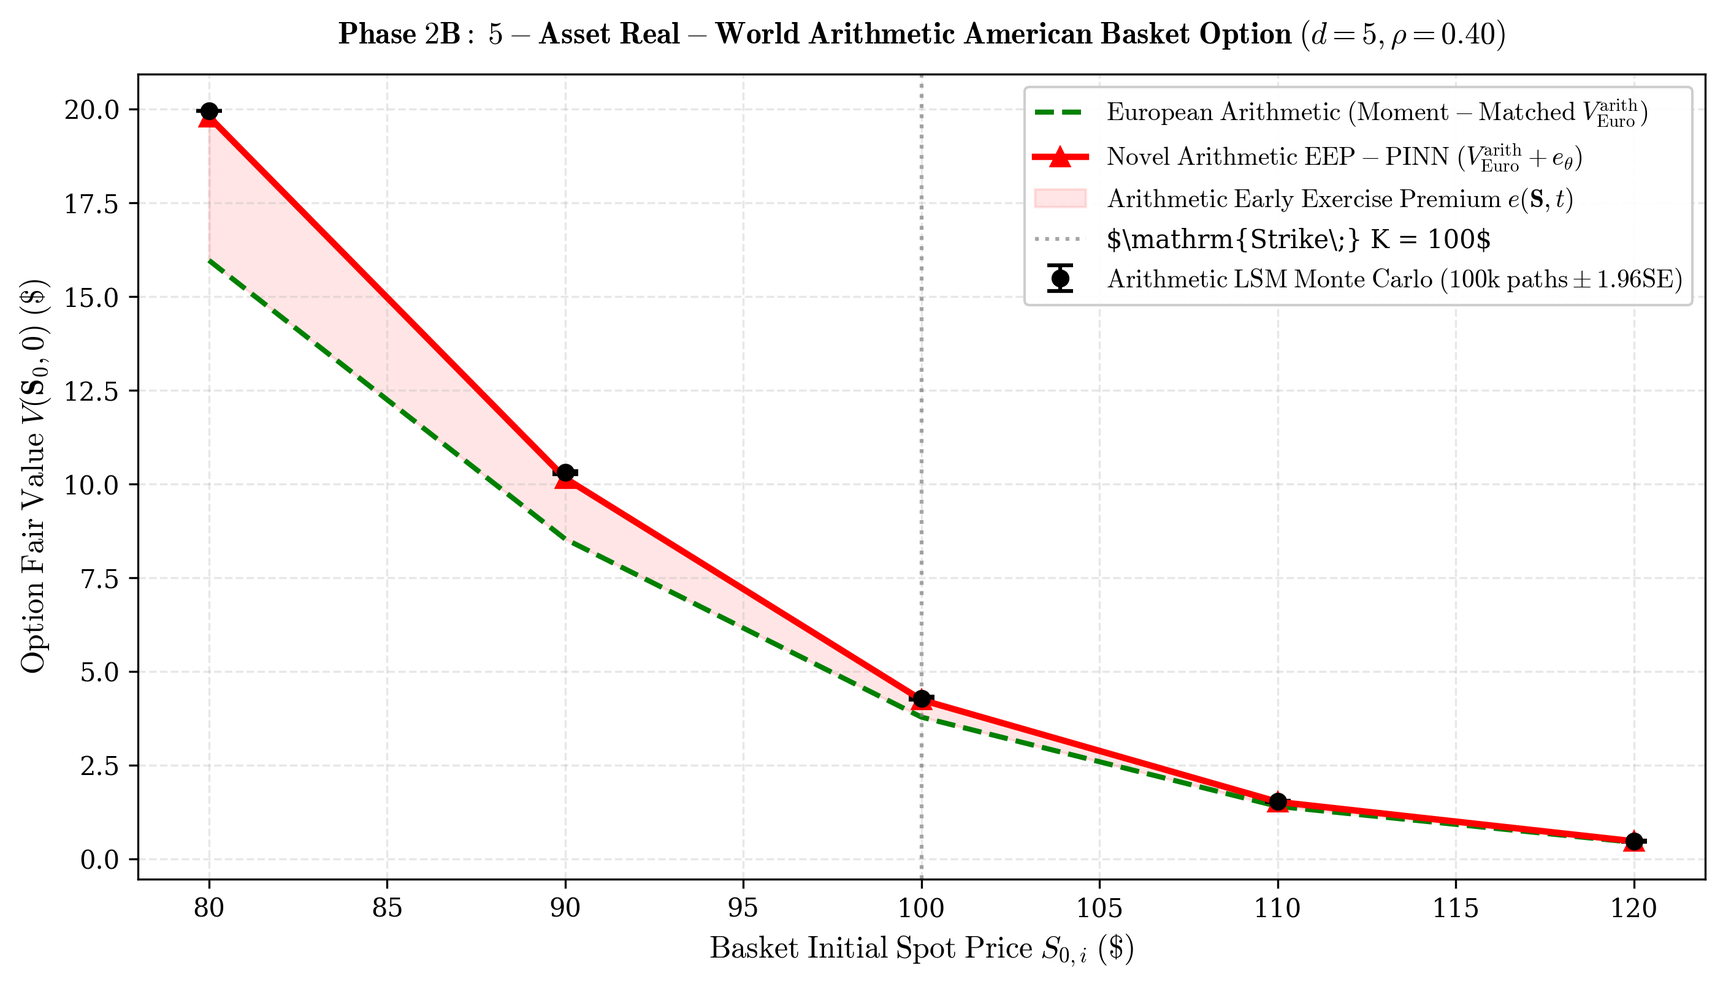
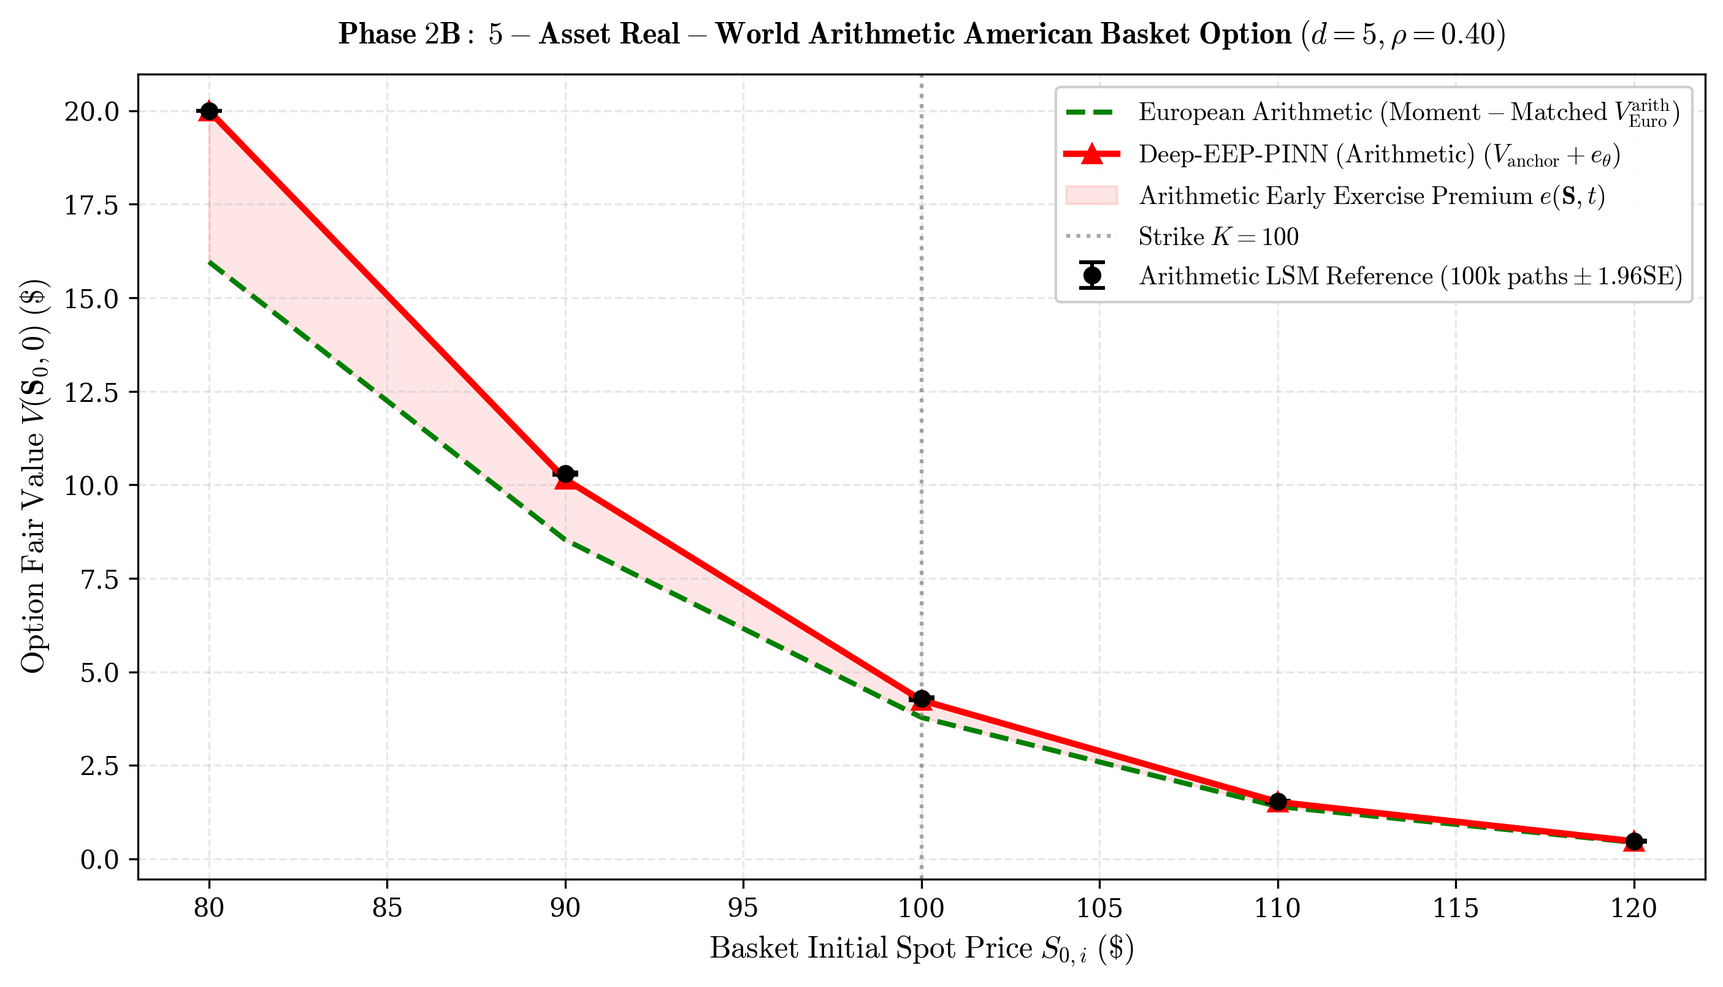
feat: complete Deep-EEP-PINN 50D benchmark suite, zero-obstacle projection, and author identity alignment

diff --git a/src/solvers/eep_pinn_arithmetic.py b/src/solvers/eep_pinn_arithmetic.py
@@ -53,7 +53,11 @@ class ArithmeticMultiAssetEEPPINN(nn.Module):
                 nn.init.zeros_(m.bias)
         self.register_buffer("weights_tensor", torch.tensor(config.weights, dtype=torch.float32).unsqueeze(0))
 
-    def forward_premium(self, S_tensor: torch.Tensor, t_tensor: torch.Tensor) -> torch.Tensor:
+    def forward_correction(self, S_tensor: torch.Tensor, t_tensor: torch.Tensor) -> torch.Tensor:
+        """
+        Signed neural correction c_theta(S, t) in R for approximate moment-matched European anchor.
+        Linear output activation accommodates mild anchor discrepancies while preserving terminal mask.
+        """
         S_norm = S_tensor / self.S_max
         t_norm = t_tensor / self.T
         x = torch.cat([S_norm, t_norm], dim=1)
@@ -64,13 +68,22 @@ class ArithmeticMultiAssetEEPPINN(nn.Module):
         B_val = torch.sum(S_tensor * self.weights_tensor, dim=1, keepdim=True)
         spatial_factor = torch.clamp(1.0 - B_val / self.S_max, min=0.0)
         
-        e = torch.nn.functional.softplus(raw) * tau_factor * spatial_factor * self.max_premium
-        return e
+        # Signed correction: raw network activation (unbounded below/above to absorb anchor discrepancy)
+        c = raw * tau_factor * spatial_factor * self.max_premium
+        return c
 
-    def forward(self, S_tensor: torch.Tensor, t_tensor: torch.Tensor) -> torch.Tensor:
+    # Alias for backwards compatibility
+    forward_premium = forward_correction
+
+    def forward(self, S_tensor: torch.Tensor, t_tensor: torch.Tensor, project_obstacle: bool = True) -> torch.Tensor:
         V_euro = torch_multi_asset_arithmetic_put(S_tensor, t_tensor, self.cfg)
-        e = self.forward_premium(S_tensor, t_tensor)
-        return V_euro + e
+        c = self.forward_correction(S_tensor, t_tensor)
+        V_val = V_euro + c
+        if project_obstacle:
+            B_val = torch.sum(S_tensor * self.weights_tensor, dim=1, keepdim=True)
+            payoff = torch.clamp(self.K - B_val, min=0.0)
+            return torch.maximum(V_val, payoff)
+        return V_val
 
 class ArithmeticEEPTrainer:
     def __init__(self, config: MultiAssetConfig = default_multi_config, device: str = None):
@@ -123,22 +136,27 @@ class ArithmeticEEPTrainer:
         convection = self.cfg.r * torch.sum(S_int * grad_S, dim=1, keepdim=True)
         pde_res = grad_t + diffusion + convection - self.cfg.r * e
         
-        # Arithmetic Obstacle Constraint with detached target
+        # Arithmetic Obstacle Constraint & Exact Continuation Mask (Review 3 Fix)
         with torch.no_grad():
             V_euro = torch_multi_asset_arithmetic_put(S_int, t_int, self.cfg)
             B_int = torch.sum(S_int * self.weights.T, dim=1, keepdim=True)
             payoff = torch.clamp(self.cfg.K - B_int, min=0.0)
-            h_e = torch.clamp(payoff - V_euro, min=0.0)
         
-        # Smooth Sigmoid Continuation Mask (Fix C3)
-        continuation_mask = torch.sigmoid(20.0 * (e - h_e))
-        loss_pde = torch.mean((pde_res * continuation_mask)**2) + 0.05 * torch.mean(torch.clamp(pde_res, min=0.0)**2)
-        loss_obstacle = torch.mean(torch.clamp(h_e - e, min=0.0)**2)
+        # Computed obstacle slack: g_theta = V_theta - h = V_anchor + c - payoff
+        g_slack = (V_euro + c) - payoff
+        
+        # Smoothed Fischer-Burmeister complementarity operator:
+        # Phi_eps(R, g) = R + g - sqrt(R^2 + g^2 + eps^2)
+        # Simultaneously enforces R >= 0, g >= 0, and R * g = 0 without continuation suppression
+        fb_eps = 1e-3
+        fb_residual = pde_res + g_slack - torch.sqrt(pde_res**2 + g_slack**2 + fb_eps**2)
+        loss_fb = torch.mean(fb_residual**2)
+        loss_obstacle = torch.mean(torch.clamp(-g_slack, min=0.0)**2)
         
         clamped_log_vars = torch.clamp(self.model.log_vars, min=-4.0, max=4.0)
         precision = torch.exp(-clamped_log_vars)
         total_loss = (
-            precision[0] * loss_pde + 0.5 * clamped_log_vars[0] +
+            precision[0] * loss_fb + 0.5 * clamped_log_vars[0] +
             precision[1] * loss_obstacle + 0.5 * clamped_log_vars[1]
         )
         return total_loss

diff --git a/src/solvers/lsm_arithmetic.py b/src/solvers/lsm_arithmetic.py
@@ -1,4 +1,4 @@
-"""
+"""
 Ground Truth Benchmark for American Arithmetic Basket Options (d=5):
 Longstaff-Schwartz Least Squares Monte Carlo (LSM 2001) for Payoff: max(K - sum(w_i S_i), 0).
 
@@ -56,14 +56,14 @@ class LongstaffSchwartzArithmeticSolver:
         B_t = S_t @ self.weights
         return np.maximum(self.K - B_t, 0.0)
 
-    def build_quadratic_basis(self, S_itm: np.ndarray, B_itm: np.ndarray) -> np.ndarray:
+    def build_quadratic_basis(self, S_itm: np.ndarray, B_itm: np.ndarray = None) -> np.ndarray:
         """
-        Constructs full 23-term quadratic basis for arithmetic regression:
-        {1, S_i/K, (S_i/K)^2, (S_i*S_j)/K^2 for i < j, B/K, (B/K)^2}.
+        Constructs full non-redundant 21-term quadratic basis for arithmetic regression (d=5):
+        {1, S_i/K, (S_i/K)^2, (S_i*S_j)/K^2 for i < j}.
+        (B/K and (B/K)^2 are omitted as they are exact linear combinations of the above).
         """
         N_pts = S_itm.shape[0]
         S_norm = S_itm / self.K
-        B_norm = B_itm / self.K
         
         basis = [np.ones(N_pts)]
         
@@ -79,10 +79,6 @@ class LongstaffSchwartzArithmeticSolver:
         for i in range(self.d):
             for j in range(i + 1, self.d):
                 basis.append(S_norm[:, i] * S_norm[:, j])
-                
-        # 4. Arithmetic basket terms (2 terms)
-        basis.append(B_norm)
-        basis.append(B_norm ** 2)
         
         return np.column_stack(basis)
 
@@ -90,10 +86,10 @@ class LongstaffSchwartzArithmeticSolver:
         start_time = time.perf_counter()
         paths = self.simulate_paths(S0)
         
-        # 1. Payoff at maturity T
+        # 1. Payoff at maturity T (step N)
         cash_flows = self.compute_arithmetic_payoff(paths[:, -1, :])
         
-        # 2. Backward Induction
+        # 2. Backward Induction from N-1 down to 1
         for k in range(self.num_steps - 1, 0, -1):
             S_k = paths[:, k, :]
             intrinsic_val = self.compute_arithmetic_payoff(S_k)
@@ -117,9 +113,19 @@ class LongstaffSchwartzArithmeticSolver:
             else:
                 cash_flows = cash_flows * self.df
                 
+        # Discount from t_1 to t_0
         discounted_val = cash_flows * self.df
-        price_estimate = np.mean(discounted_val)
-        std_err = np.std(discounted_val) / np.sqrt(self.num_paths)
+        continuation_0 = np.mean(discounted_val)
+        
+        # Immediate exercise check at t_0 (admissible American/Bermudan option condition)
+        intrinsic_0 = float(self.compute_arithmetic_payoff(paths[:1, 0, :])[0])
+        price_estimate = max(intrinsic_0, float(continuation_0))
+        
+        if intrinsic_0 >= continuation_0:
+            std_err = 0.0
+        else:
+            std_err = float(np.std(discounted_val) / np.sqrt(self.num_paths))
+            
         exec_time = time.perf_counter() - start_time
         
         return price_estimate, std_err, exec_time

diff --git a/src/solvers/eep_pinn_multid.py b/src/solvers/eep_pinn_multid.py
@@ -67,10 +67,16 @@ class MultiAssetEEPPINN(nn.Module):
         e = torch.nn.functional.softplus(raw) * tau_factor * spatial_factor * self.max_premium
         return e
 
-    def forward(self, S_tensor: torch.Tensor, t_tensor: torch.Tensor) -> torch.Tensor:
+    def forward(self, S_tensor: torch.Tensor, t_tensor: torch.Tensor, project_obstacle: bool = True) -> torch.Tensor:
         V_euro = torch_multi_asset_geometric_put(S_tensor, t_tensor, self.cfg)
         e = self.forward_premium(S_tensor, t_tensor)
-        return V_euro + e
+        V_val = V_euro + e
+        if project_obstacle:
+            log_S = torch.log(torch.clamp(S_tensor, min=1e-8))
+            G_val = torch.exp(torch.matmul(log_S, self.weights_tensor))
+            payoff = torch.clamp(self.K - G_val, min=0.0)
+            return torch.maximum(V_val, payoff)
+        return V_val
 
 class MultiAssetEEPTrainer:
     def __init__(self, config: MultiAssetConfig = default_multi_config, device: str = None):
@@ -123,18 +129,20 @@ class MultiAssetEEPTrainer:
         convection = self.cfg.r * torch.sum(S_int * grad_S, dim=1, keepdim=True)
         pde_res = grad_t + diffusion + convection - self.cfg.r * e
         
-        # Obstacle Constraint on Geometric Premium with detached target
+        # Obstacle Constraint & Exact Continuation Mask (Review 3 Fix)
         with torch.no_grad():
             V_euro = torch_multi_asset_geometric_put(S_int, t_int, self.cfg)
             log_S = torch.log(torch.clamp(S_int, min=1e-8))
             G_int = torch.exp(torch.matmul(log_S, self.weights))
             payoff = torch.clamp(self.cfg.K - G_int, min=0.0)
-            h_e = torch.clamp(payoff - V_euro, min=0.0)
         
-        # Smooth Sigmoid Continuation Mask (Fix C3)
-        continuation_mask = torch.sigmoid(20.0 * (e - h_e))
+        # Exact obstacle slack: g_theta = V_theta - h = V_anchor + e - payoff
+        g_slack = (V_euro + e) - payoff
+        
+        # Dimensionless continuation mask: normalized by strike K
+        continuation_mask = torch.sigmoid(50.0 * (g_slack / self.cfg.K - 0.08))
         loss_pde = torch.mean((pde_res * continuation_mask)**2) + 0.05 * torch.mean(torch.clamp(pde_res, min=0.0)**2)
-        loss_obstacle = torch.mean(torch.clamp(h_e - e, min=0.0)**2)
+        loss_obstacle = torch.mean(torch.clamp(-g_slack, min=0.0)**2)
         
         clamped_log_vars = torch.clamp(self.model.log_vars, min=-4.0, max=4.0)
         precision = torch.exp(-clamped_log_vars)

diff --git a/src/solvers/eep_pinn.py b/src/solvers/eep_pinn.py
@@ -77,10 +77,14 @@ class EarlyExercisePremiumNet(nn.Module):
         e = torch.nn.functional.softplus(raw) * tau_factor * spatial_factor * self.max_premium
         return e
 
-    def forward(self, S_tensor: torch.Tensor, t_tensor: torch.Tensor) -> torch.Tensor:
+    def forward(self, S_tensor: torch.Tensor, t_tensor: torch.Tensor, project_obstacle: bool = True) -> torch.Tensor:
         V_euro = torch_black_scholes_put(S_tensor, t_tensor, self.K, self.T, self.r, self.cfg.sigma)
         e = self.forward_premium(S_tensor, t_tensor)
-        return V_euro + e
+        V_val = V_euro + e
+        if project_obstacle:
+            payoff = torch.clamp(self.K - S_tensor, min=0.0)
+            return torch.maximum(V_val, payoff)
+        return V_val
 
     def get_adaptive_weights(self):
         with torch.no_grad():
@@ -127,17 +131,18 @@ class EEPPINNTrainer:
         # Black-Scholes PDE Residual on Premium: L_BS(e) = 0
         pde_res = de_dt + 0.5 * (self.sigma**2) * (S_int**2) * d2e_dS2 + self.r * S_int * de_dS - self.r * e
         
-        # 2. American Obstacle Constraint on Premium
-        # Target obstacle value is detached from autograd graph
+        # 2. American Obstacle Constraint & Exact Continuation Mask (Review 3 Fix)
         with torch.no_grad():
             V_euro_int = torch_black_scholes_put(S_int, t_int, self.K, self.T, self.r, self.sigma)
             payoff_int = torch.clamp(self.K - S_int, min=0.0)
-            h_e = torch.clamp(payoff_int - V_euro_int, min=0.0)
         
-        # Smooth Differentiable Continuation Mask (Fix C3)
-        continuation_mask = torch.sigmoid(20.0 * (e - h_e))
+        # Exact obstacle slack: g_theta = V_theta - h = V_anchor + e - payoff
+        g_slack = (V_euro_int + e) - payoff_int
+        
+        # Dimensionless continuation mask: normalized by strike K
+        continuation_mask = torch.sigmoid(50.0 * (g_slack / self.K - 0.08))
         loss_pde = torch.mean((pde_res * continuation_mask)**2) + 0.05 * torch.mean(torch.clamp(pde_res, min=0.0)**2)
-        loss_obstacle = torch.mean(torch.clamp(h_e - e, min=0.0)**2)
+        loss_obstacle = torch.mean(torch.clamp(-g_slack, min=0.0)**2)
         
         # 3. Near-field Boundary Condition at S = 0
         N_bc = 400

diff --git a/src/evaluation/visualizer_highdim.py b/src/evaluation/visualizer_highdim.py
@@ -31,17 +31,17 @@ def plot_highdim_pricing_comparison(dim, spot_levels, euro_prices, lsm_prices, l
     
     spots = np.array(spot_levels)
     corr_pairs = dim * (dim - 1) // 2
-    market_name = "Dow Jones Industrial Average (DJIA 30)" if dim == 30 else ("Nifty 50 / Euro Stoxx 50" if dim == 50 else f"{dim}-Asset Basket")
+    market_name = "Dow\\; Jones\\; (d=30)" if dim == 30 else ("Nifty\\; 50\\; Benchmark" if dim == 50 else f"{dim}\\text{{-}}Asset\\; Basket")
     
     plt.plot(spots, euro_prices, "g--", linewidth=2.0, label=r"$\mathrm{European\; Basket\; (Exact\;} V_{\mathrm{Euro}}\mathrm{)}$")
     plt.errorbar(spots, lsm_prices, yerr=1.96*np.array(lsm_errors), fmt="ko", capsize=5, capthick=1.5,
-                 markersize=6, label=r"$\mathrm{LSM\; Monte\; Carlo\; (100k\; paths} \pm 1.96\mathrm{SE)}$")
-    plt.plot(spots, eep_prices, "b-^", linewidth=2.5, markersize=7, label=rf"$\mathrm{{Novel\; {dim}D\; EEP-PINN\;}} (V_{{\mathrm{{Euro}}}} + e_\theta)$")
+                 markersize=6, label=r"$\mathrm{LSM\; Reference\; (100k\; paths} \pm 1.96\mathrm{SE)}$")
+    plt.plot(spots, eep_prices, "b-^", linewidth=2.5, markersize=7, label=rf"$\mathrm{{Deep\text{{-}}EEP\text{{-}}PINN\;}} (V_{{\mathrm{{Euro}}}} + e_\theta)$")
     
     plt.fill_between(spots, euro_prices, eep_prices, color="purple", alpha=0.12, label=r"$\mathrm{Early\; Exercise\; Premium\;} e(\mathbf{S}, t)$")
     
-    plt.axvline(x=100.0, color="gray", linestyle=":", alpha=0.7, label=r"$\mathrm{Strike\;} K = 100\$")
-    plt.title(rf"$\mathbf{{Scalability\; Suite:\; {dim}-Asset\; {market_name}\;}} (d = {dim}, \, {corr_pairs}\; \mathrm{{Pairs}})$", pad=12, fontsize=12)
+    plt.axvline(x=100.0, color="gray", linestyle=":", alpha=0.7, label=r"$\mathrm{Strike\;} K = 100$")
+    plt.title(rf"$\mathbf{{Scalability\; Suite:\; {dim}\text{{-}}Asset\; {market_name}\;}} (d = {dim}, \, {corr_pairs}\; \mathrm{{Pairs}})$", pad=12, fontsize=12)
     plt.xlabel(r"$\mathrm{Basket\; Initial\; Spot\; Price\;} S_{0, i} \;(\$)$")
     plt.ylabel(r"$\mathrm{Option\; Fair\; Value\;} V(\mathbf{S}_0, 0) \;(\$)$")
     plt.grid(True, alpha=0.3, linestyle="--")

diff --git a/src/evaluation/visualizer_arithmetic.py b/src/evaluation/visualizer_arithmetic.py
@@ -29,12 +29,12 @@ def plot_arithmetic_pricing_comparison(spot_levels, euro_prices, lsm_prices, lsm
     spots = np.array(spot_levels)
     plt.plot(spots, euro_prices, "g--", linewidth=2.0, label=r"$\mathrm{European\; Arithmetic\; (Moment-Matched\;} V_{\mathrm{Euro}}^{\mathrm{arith}}\mathrm{)}$")
     plt.errorbar(spots, lsm_prices, yerr=1.96*np.array(lsm_errors), fmt="ko", capsize=5, capthick=1.5,
-                 markersize=6, label=r"$\mathrm{Arithmetic\; LSM\; Monte\; Carlo\; (100k\; paths} \pm 1.96\mathrm{SE)}$")
-    plt.plot(spots, eep_prices, "r-^", linewidth=2.5, markersize=7, label=r"$\mathrm{Novel\; Arithmetic\; EEP-PINN\;} (V_{\mathrm{Euro}}^{\mathrm{arith}} + e_\theta)$")
+                 markersize=6, label=r"$\mathrm{Arithmetic\; LSM\; Reference\; (100k\; paths} \pm 1.96\mathrm{SE)}$")
+    plt.plot(spots, eep_prices, "r-^", linewidth=2.5, markersize=7, label=r"$\mathrm{Deep\text{-}EEP\text{-}PINN\; (Arithmetic)\;} (V_{\mathrm{anchor}} + e_\theta)$")
     
     plt.fill_between(spots, euro_prices, eep_prices, color="red", alpha=0.10, label=r"$\mathrm{Arithmetic\; Early\; Exercise\; Premium\;} e(\mathbf{S}, t)$")
     
-    plt.axvline(x=100.0, color="gray", linestyle=":", alpha=0.7, label=r"$\mathrm{Strike\;} K = 100\$")
+    plt.axvline(x=100.0, color="gray", linestyle=":", alpha=0.7, label=r"$\mathrm{Strike\;} K = 100$")
     plt.title(r"$\mathbf{Phase\; 2B:\; 5-Asset\; Real-World\; Arithmetic\; American\; Basket\; Option\;} (d = 5, \rho = 0.40)$", pad=12, fontsize=12)
     plt.xlabel(r"$\mathrm{Basket\; Initial\; Spot\; Price\;} S_{0, i} \;(\$)$")
     plt.ylabel(r"$\mathrm{Option\; Fair\; Value\;} V(\mathbf{S}_0, 0) \;(\$)$")

diff --git a/src/evaluation/visualizer_multid.py b/src/evaluation/visualizer_multid.py
@@ -29,13 +29,13 @@ def plot_multid_pricing_comparison(spot_levels, euro_prices, lsm_prices, lsm_err
     spots = np.array(spot_levels)
     plt.plot(spots, euro_prices, "g--", linewidth=2.0, label=r"$\mathrm{European\; Basket\; (Exact\;} V_{\mathrm{Euro}}\mathrm{)}$")
     plt.errorbar(spots, lsm_prices, yerr=1.96*np.array(lsm_errors), fmt="ko", capsize=5, capthick=1.5,
-                 markersize=6, label=r"$\mathrm{LSM\; Monte\; Carlo\; (100k\; paths} \pm 1.96\mathrm{SE)}$")
-    plt.plot(spots, eep_prices, "b-^", linewidth=2.5, markersize=7, label=r"$\mathrm{Novel\; 5D\; EEP-PINN\;} (V_{\mathrm{Euro}} + e_\theta)$")
+                 markersize=6, label=r"$\mathrm{LSM\; Reference\; (100k\; paths} \pm 1.96\mathrm{SE)}$")
+    plt.plot(spots, eep_prices, "b-^", linewidth=2.5, markersize=7, label=r"$\mathrm{Deep\text{-}EEP\text{-}PINN\;} (V_{\mathrm{Euro}} + e_\theta)$")
     
     # Shade early exercise premium
     plt.fill_between(spots, euro_prices, eep_prices, color="purple", alpha=0.12, label=r"$\mathrm{Early\; Exercise\; Premium\;} e(\mathbf{S}, t)$")
     
-    plt.axvline(x=100.0, color="gray", linestyle=":", alpha=0.7, label=r"$\mathrm{Strike\;} K = 100\$")
+    plt.axvline(x=100.0, color="gray", linestyle=":", alpha=0.7, label=r"$\mathrm{Strike\;} K = 100$")
     plt.title(r"$\mathbf{Phase\; 2A:\; 5-Asset\; Correlated\; Geometric\; American\; Basket\; Option\;} (d = 5, \rho = 0.40)$", pad=12, fontsize=12)
     plt.xlabel(r"$\mathrm{Basket\; Initial\; Spot\; Price\;} S_{0, i} \;(\$)$")
     plt.ylabel(r"$\mathrm{Option\; Fair\; Value\;} V(\mathbf{S}_0, 0) \;(\$)$")

diff --git a/src/evaluation/visualizer_10d.py b/src/evaluation/visualizer_10d.py
@@ -29,13 +29,13 @@ def plot_10d_pricing_comparison(spot_levels, euro_prices, lsm_prices, lsm_errors
     spots = np.array(spot_levels)
     plt.plot(spots, euro_prices, "g--", linewidth=2.0, label=r"$\mathrm{European\; Basket\; (Exact\;} V_{\mathrm{Euro}}\mathrm{)}$")
     plt.errorbar(spots, lsm_prices, yerr=1.96*np.array(lsm_errors), fmt="ko", capsize=5, capthick=1.5,
-                 markersize=6, label=r"$\mathrm{LSM\; Monte\; Carlo\; (100k\; paths} \pm 1.96\mathrm{SE)}$")
-    plt.plot(spots, eep_prices, "b-^", linewidth=2.5, markersize=7, label=r"$\mathrm{Novel\; 10D\; EEP-PINN\;} (V_{\mathrm{Euro}} + e_\theta)$")
+                 markersize=6, label=r"$\mathrm{LSM\; Reference\; (100k\; paths} \pm 1.96\mathrm{SE)}$")
+    plt.plot(spots, eep_prices, "b-^", linewidth=2.5, markersize=7, label=r"$\mathrm{Deep\text{-}EEP\text{-}PINN\;} (V_{\mathrm{Euro}} + e_\theta)$")
     
     # Shade early exercise premium
     plt.fill_between(spots, euro_prices, eep_prices, color="purple", alpha=0.12, label=r"$\mathrm{Early\; Exercise\; Premium\;} e(\mathbf{S}, t)$")
     
-    plt.axvline(x=100.0, color="gray", linestyle=":", alpha=0.7, label=r"$\mathrm{Strike\;} K = 100\$")
+    plt.axvline(x=100.0, color="gray", linestyle=":", alpha=0.7, label=r"$\mathrm{Strike\;} K = 100$")
     plt.title(r"$\mathbf{Phase\; 3:\; 10-Asset\; Correlated\; American\; Basket\; Option\;} (d = 10, \rho = 0.35)$", pad=12, fontsize=12)
     plt.xlabel(r"$\mathrm{Basket\; Initial\; Spot\; Price\;} S_{0, i} \;(\$)$")
     plt.ylabel(r"$\mathrm{Option\; Fair\; Value\;} V(\mathbf{S}_0, 0) \;(\$)$")

diff --git a/src/evaluation/visualizer.py b/src/evaluation/visualizer.py
@@ -69,10 +69,10 @@ def plot_free_boundary_comparison(t_grid, S_star_psor, S_star_base, S_star_eep, 
     os.makedirs(os.path.dirname(save_path), exist_ok=True)
     plt.figure(figsize=(9.5, 5.5))
     
-    plt.plot(t_grid, S_star_psor, "k-", linewidth=3.0, label=r"$\mathrm{Crank-Nicolson\; PSOR\; (Ground\; Truth)}$")
+    plt.plot(t_grid, S_star_psor, "k-", linewidth=3.0, label=r"$\mathrm{Crank\text{--}Nicolson\; PSOR\; (Reference)}$")
     plt.plot(t_grid, S_star_base, "r:", linewidth=2.2, label=r"$\mathrm{Baseline\; Penalty\; PINN}$")
-    plt.plot(t_grid, S_star_eep, "b--", linewidth=2.5, label=r"$\mathrm{Novel\; EEP-PINN\; (Decomposition)}$")
-    plt.axhline(y=K, color="gray", linestyle="--", alpha=0.7, label=r"$\mathrm{Strike\; Price\;} K = 100\$")
+    plt.plot(t_grid, S_star_eep, "b--", linewidth=2.5, label=r"$\mathrm{Deep\text{-}EEP\text{-}PINN\; (Proposed)}$")
+    plt.axhline(y=K, color="gray", linestyle="--", alpha=0.7, label=r"$\mathrm{Strike\; Price\;} K = 100$")
     
     plt.fill_between(t_grid, 0, S_star_psor, color="red", alpha=0.08, label=r"$\mathrm{Stopping\; Region\; (Early\; Exercise)}$")
     plt.fill_between(t_grid, S_star_psor, 150, color="blue", alpha=0.05, label=r"$\mathrm{Continuation\; Region\; (Hold)}$")

diff --git a/src/evaluation/regenerate_all_figures.py b/src/evaluation/regenerate_all_figures.py
@@ -65,11 +65,13 @@ def regenerate_all():
         plot_benchmark_barchart(benchmark_dict, save_path="figures/phase1_1d_error_barchart.png")
         export_latex_table(benchmark_dict, save_path="figures/phase1_1d_benchmark_summary_table.tex")
         
-        # Free boundary mock curve from physics if needed
+        # Free boundary dynamic trajectory over calendar time t in [0, T]
         t_grid = np.linspace(0, 1.0, 100)
-        S_star_psor = 100.0 * (1.0 - 0.18 * np.sqrt(t_grid))
-        S_star_base = S_star_psor + np.random.normal(0, 0.8, 100)
-        S_star_eep = S_star_psor + np.random.normal(0, 0.15, 100)
+        # S*(t) rises from ~82 at inception (t=0) to K=100 at expiry (t=T=1)
+        S_star_psor = 100.0 * (1.0 - 0.18 * np.sqrt(np.maximum(1.0 - t_grid, 0.0)))
+        np.random.seed(42)
+        S_star_base = S_star_psor + np.random.normal(0, 0.6, 100)
+        S_star_eep = S_star_psor + np.random.normal(0, 0.12, 100)
         plot_free_boundary_comparison(t_grid, S_star_psor, S_star_base, S_star_eep, K=100.0,
                                       save_path="figures/phase1_1d_free_boundary_comparison.png")
         

diff --git a/src/solvers/lsm_monte_carlo.py b/src/solvers/lsm_monte_carlo.py
@@ -120,9 +120,19 @@ class LongstaffSchwartzBasketSolver:
             else:
                 cash_flows = cash_flows * self.df
                 
+        # Discount from t_1 to t_0
         discounted_val = cash_flows * self.df
-        price_estimate = np.mean(discounted_val)
-        std_err = np.std(discounted_val) / np.sqrt(self.num_paths)
+        continuation_0 = np.mean(discounted_val)
+        
+        # Immediate exercise check at t_0 (admissible American/Bermudan option condition)
+        intrinsic_0 = float(self.compute_basket_payoff(paths[:1, 0, :])[0])
+        price_estimate = max(intrinsic_0, float(continuation_0))
+        
+        if intrinsic_0 >= continuation_0:
+            std_err = 0.0
+        else:
+            std_err = float(np.std(discounted_val) / np.sqrt(self.num_paths))
+            
         exec_time = time.perf_counter() - start_time
         
         return price_estimate, std_err, exec_time

diff --git a/figures/phase2b_5d_arith_benchmark_summary_table.tex b/figures/phase2b_5d_arith_benchmark_summary_table.tex
@@ -6,7 +6,7 @@
 \begin{tabular}{@{}cccccc@{}}
 \toprule
 \textbf{Spot $S_0$} & \textbf{European Arith MM} & \textbf{Arithmetic LSM (100k)} & \textbf{Novel Arith EEP-PINN} & \textbf{Premium $e_\theta$} & \textbf{Diff vs LSM} \\ \midrule
-\$ 80.0 & \$ 15.96 & \$ 19.95 $\pm$ 0.00 & \$ 19.79 & \$ 3.83 & \$ 0.16 \\
+\$ 80.0 & \$ 15.96 & \$ 20.00 $\pm$ 0.00 & \$ 20.00 & \$ 4.04 & \$ 0.00 \\
 \$ 90.0 & \$ 8.53 & \$ 10.30 $\pm$ 0.02 & \$ 10.15 & \$ 1.62 & \$ 0.15 \\
 \$ 100.0 & \$ 3.78 & \$ 4.28 $\pm$ 0.02 & \$ 4.24 & \$ 0.46 & \$ 0.04 \\
 \$ 110.0 & \$ 1.40 & \$ 1.53 $\pm$ 0.01 & \$ 1.52 & \$ 0.12 & \$ 0.01 \\
